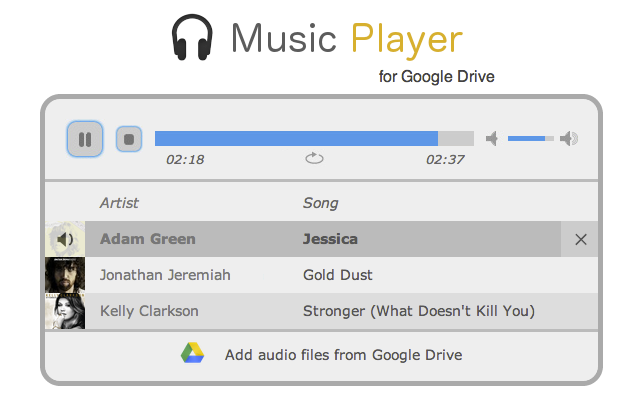
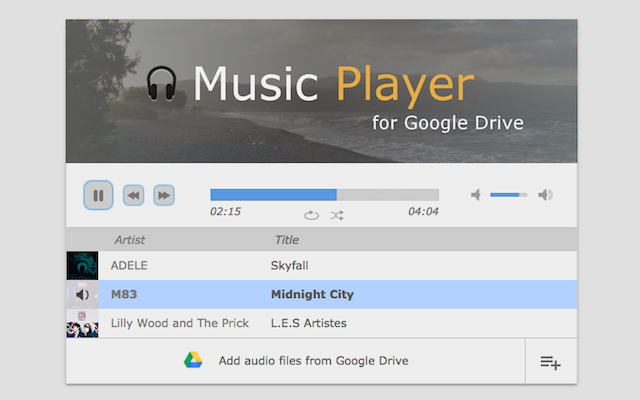
bug fix and new CWS asset

diff --git a/js/dmp.player.js b/js/dmp.player.js
@@ -29,7 +29,7 @@ dmp.player.initPlayer = function(){
   if (swfobject.hasFlashPlayerVersion("9.0.0")) {
       dmp.player.flash = "flash_ok";
       dmp.player.hasFlash = true;
-      solution = "flash,html";
+      solution = "html,flash";
   }
   if(ga) {
     ga('send', 'event', 'flash', dmp.player.flash);
